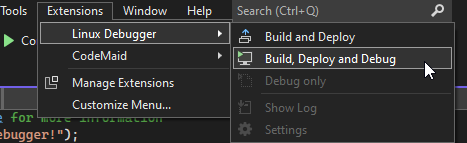
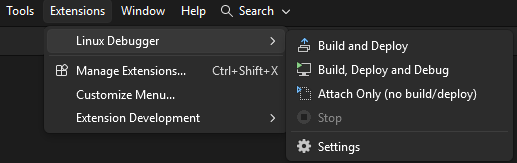
Update readme, release notes, and screenshots for these changes
Documents the new features (SSH cert auth, sudo-elevated debugger,
dotnet publish deploy, env vars, pre/post-deploy commands and
attach-to-running-process, Attach Only, Stop button, modernized
Options UI), fixes button-name inconsistencies against the actual
.vsct text, and updates the menu/Options screenshots to match the
current UI instead of the pre-existing single-page PropertyGrid.

diff --git a/readme.md b/readme.md
@@ -12,27 +12,41 @@ Suess Labs consulting is sponsored by _Xeno Innovations, Inc._
 
 ## Overview
 
-Now developers can build, deploy and debug projects on their remote Linux (Ubuntu, Raspberry PI, etc) devices! Customize your SSH connection to use either a _password_ or a _private key_.
+Now developers can build, deploy and debug projects on their remote Linux (Ubuntu, Raspberry PI, etc) devices! Customize your SSH connection to use either a _password_, a _private key_, or an SSH CA-signed certificate.
 
 If you enjoy using the extension, please give it a ★★★★★ rating on the [Visual Studio Marketplace](https://marketplace.visualstudio.com/items?itemName=SuessLabs.VSLinuxDebugger).
 
+### What's new
+
+* **SSH CA certificate authentication** — supports a private key with an accompanying `<key>-cert.pub` certificate (auto-detected next to the key, or set explicitly), in addition to password and plain private-key auth.
+* **Sudo-elevated debugger launch** — an opt-in setting launches `vsdbg` via a configurable `sudo` command, for debuggees running with elevated or ambient capabilities that the debugger must match to attach.
+* **Deploys via `dotnet publish`** — always produces a real native executable (self-contained or framework-dependent, your choice), with the executable bit restored after transfer (lost by default over tar/scp from Windows).
+* **Environment variables for the debuggee** — pass `KEY=VALUE` pairs through to the remote process, for programs that read required configuration from the environment.
+* **Configurable pre/post-deploy commands and attach-to-running-process** — run arbitrary shell commands before/after each deploy (i.e. stopping/restarting a systemd service), and optionally attach the debugger to that already-running process (via a configurable PID-lookup command) instead of launching a new one.
+* **Attach Only** — reattach to a running/deployed process without rebuilding or redeploying.
+* **Stop button** — cancels an in-progress build/deploy/debug between steps.
+* **Modernized Options UI** — settings are split across focused Tools > Options pages (Remote Host, Remote Credentials, Remote Debugger, Remote Launch, Local) built with a real WPF UI (checkboxes, dynamic show/hide for dependent fields) instead of a single page with a WinForms PropertyGrid.
+* Support for Visual Studio 2026 and newer .NET target frameworks (net8.0, net10.0).
+
 ### Supported Remote OS
 
-The following Linux distrobutions have been validated and are supported.
+The following Linux distributions have been validated and are supported.
 
 * Ubuntu (20.04 LTS, 22.04 LTS, 24.x LTS)
-* Raspberry PI OS
+* Raspberry Pi OS
+* Debian-based embedded Linux images (i.e. Yocto/OpenEmbedded targets), where `curl` and an SSH server are available
 
 ### Usage
 
 ![VS Menu](docs/ScreenShot-MenuItems.png)
 
-* Build and upload to remote devices
-* Remote debugging*
-  * _This is still in the experimental stages. Please use VS' Attach to Process if you have issues_
+* **Build and Deploy** — build, upload to the remote device, and (re)start it if pre/post-deploy commands are configured.
+* **Build, Deploy and Debug** — the above, then attach the debugger (or launch it, for a fresh non-supervised process).
+* **Attach Only (no build/deploy)** — reattach to whatever's already running/deployed, without rebuilding or redeploying.
+* **Stop** — cancels an in-progress build/deploy/debug between steps.
 * VS Linux Debugger will automatically detect and install `vsdbg` for you!
 
-For GUI app debugging, you can use the _Build and Deploy_ feature, however, you must manually _Attach to Process_ via SSH using Visual Studio at this time.
+For GUI app debugging, you must manually _Attach to Process_ via SSH using Visual Studio at this time (see below).
 
 ### Getting Started
 
@@ -46,9 +60,9 @@ sudo apt install curl
 **Windows**:
 
 1. Open Visual Studio (VS) > Tools > Options > **Linux Debugger**
-2. **Input:** Remote Host IP address
-3. **Input:** Remote's User Name and Password
-4. VS > Extensions > Linux Debugger > **Build, Deploy, Debug**
+2. Configure the **Remote Host** page (IP address) and **Remote Credentials** page (user name, and either a password, a private key, or an SSH CA certificate)
+3. Optionally, configure **Remote Debugger** (deploy folder, self-contained/RID) and **Remote Launch** (env vars, pre/post-deploy commands, attach-to-running-process, sudo, X11)
+4. VS > Extensions > Linux Debugger > **Build, Deploy and Debug**
 
 ![Tools Options](docs/ScreenShot-ToolsOptions.png)
 
@@ -70,53 +84,7 @@ For GUI projects, you can use **Build and Deploy** and then manually attach to t
 
 This will save you 1.5 minutes on every build of manual uploading and updating rights via `chown -R`.
 
-### Manually Attaching (for Command line apps)
-
-For CLI projects, you can use **Build and Deploy** and then manually attach to the process via SSH by using Visual Studio's built-in tool (similar to above).
-
-You may have to manually interrupt your app via `Console.ReadLine();` high-up in your entry-point (i.e. `main()`).
-
-1. Deploy to remote machine via
-   1. Extensions > Linux Debugger > **"Build and Deploy"**
-2. Run your CLI app on remote machine
-   1. `dotnet MyCliApp.dll`
-3. Debug > **"Attach to Process.."**
-   1. Connection Type: **SSH**
-   2. Connection Target: **(Remote machine's IP)**
-   3. (Select process)
-   4. Click, **Attach**
-   5. Check, **"Managed (.NET Core for Unix)"**
-   6. Click, **OK**
-4. Continue your application, if using a manual interrupt (i.e. `Console.ReadLine();`)
-
-This will save you 1.5 minutes on every build of manual uploading and updating rights via `chown -R`.
-
-## How To Generate Private Key (optional)
-
-The following steps are options if you wish to use an SSH Private Key. These steps were written for Windows 10, however, on Linux the steps are similar.
-
-1. Open PowerShell:
-2. **Generate key** (_with old PEM format_)
-   1. `ssh-keygen -m PEM -t rsa -b 4096`
-   2. In the future, we'll be able to use `ssh-keygen`.. just not yet.
-3. Set output name (_default is okay for basic setups_)
-4. Input a passphrase for the key _(OPTIONAL)_
-5. Windows will now generate your RSA public/private key pair.
-   1. Default location: `%UserProfile%\.ssh` (WINOWS)
-   2. The public key will be stored as `id_rsa.pub` in the directory
-6. **Upload the public key** to your remote machine
-   1. Navigate to folder, `~/.ssh/` on Linux device
-   2. If `~/.ssh/authorized_keys` exists, append the contents of `id_rsa.pub` to the next line.
-   3. If it does not exist, simply upload `id_rsa.pub` and rename it to, `authorized_keys`
-7. DONE!
-
-## Used By
-
-* [SuessLabs](https://suesslabs.com) and [Xeno Innovations](https://xenoinc.com)
-* [Wilderness Labs](https://github.com/WildernessLabs)
-* [Omnicell, Inc.](https://omnicell.com)
-
-_Want your name added? Reach out to us_
+If your remote device uses **SSH CA-signed certificates** instead of `authorized_keys` (i.e. `TrustedUserCAKeys` configured in `sshd_config`), point "SSH Private Key File" at your CA-issued private key; the matching `<key>-cert.pub` certificate is picked up automatically if it sits next to the key, or can be set explicitly via "SSH Certificate File" on the Remote Credentials options page.
 
 ## Future Features
 

diff --git a/release-notes.md b/release-notes.md
@@ -4,6 +4,17 @@
 
 This document contains the release information for the project.
 
+### 3.0.0
+
+* Added: SSH CA certificate authentication (a private key with an accompanying `<key>-cert.pub` certificate, auto-detected or set explicitly), in addition to password and plain private-key auth.
+* Added: Sudo-elevated debugger launch, for debuggees running with elevated or ambient capabilities that the debugger must match to attach.
+* Added: Configurable pre/post-deploy shell commands, and an "Attach to Already-Running Process" mode (with a configurable PID-lookup command) for debuggees managed by an external supervisor (i.e. a systemd service).
+* Added: "Attach Only" menu item to reattach to a running/deployed process without rebuilding or redeploying.
+* Added: A "Stop" button to cancel an in-progress build/deploy/debug between steps.
+* Update: Deployment now always goes through `dotnet publish` (self-contained or framework-dependent), producing a real native executable either way, instead of uploading a plain build's output folder.
+* Update: Options window split across focused Tools > Options pages (Remote Host, Remote Credentials, Remote Debugger, Remote Launch, Local) with a real WPF UI (checkboxes, dynamic show/hide for dependent fields) instead of a single page with a WinForms PropertyGrid.
+* Update: Support for Visual Studio 2026 and newer .NET target frameworks (net8.0, net10.0).
+
 ### 2.3.0 - 2024-12-02
 
 Early patch release before Christmas break. Effort moving forward will be for the upcoming 3.0 release.
